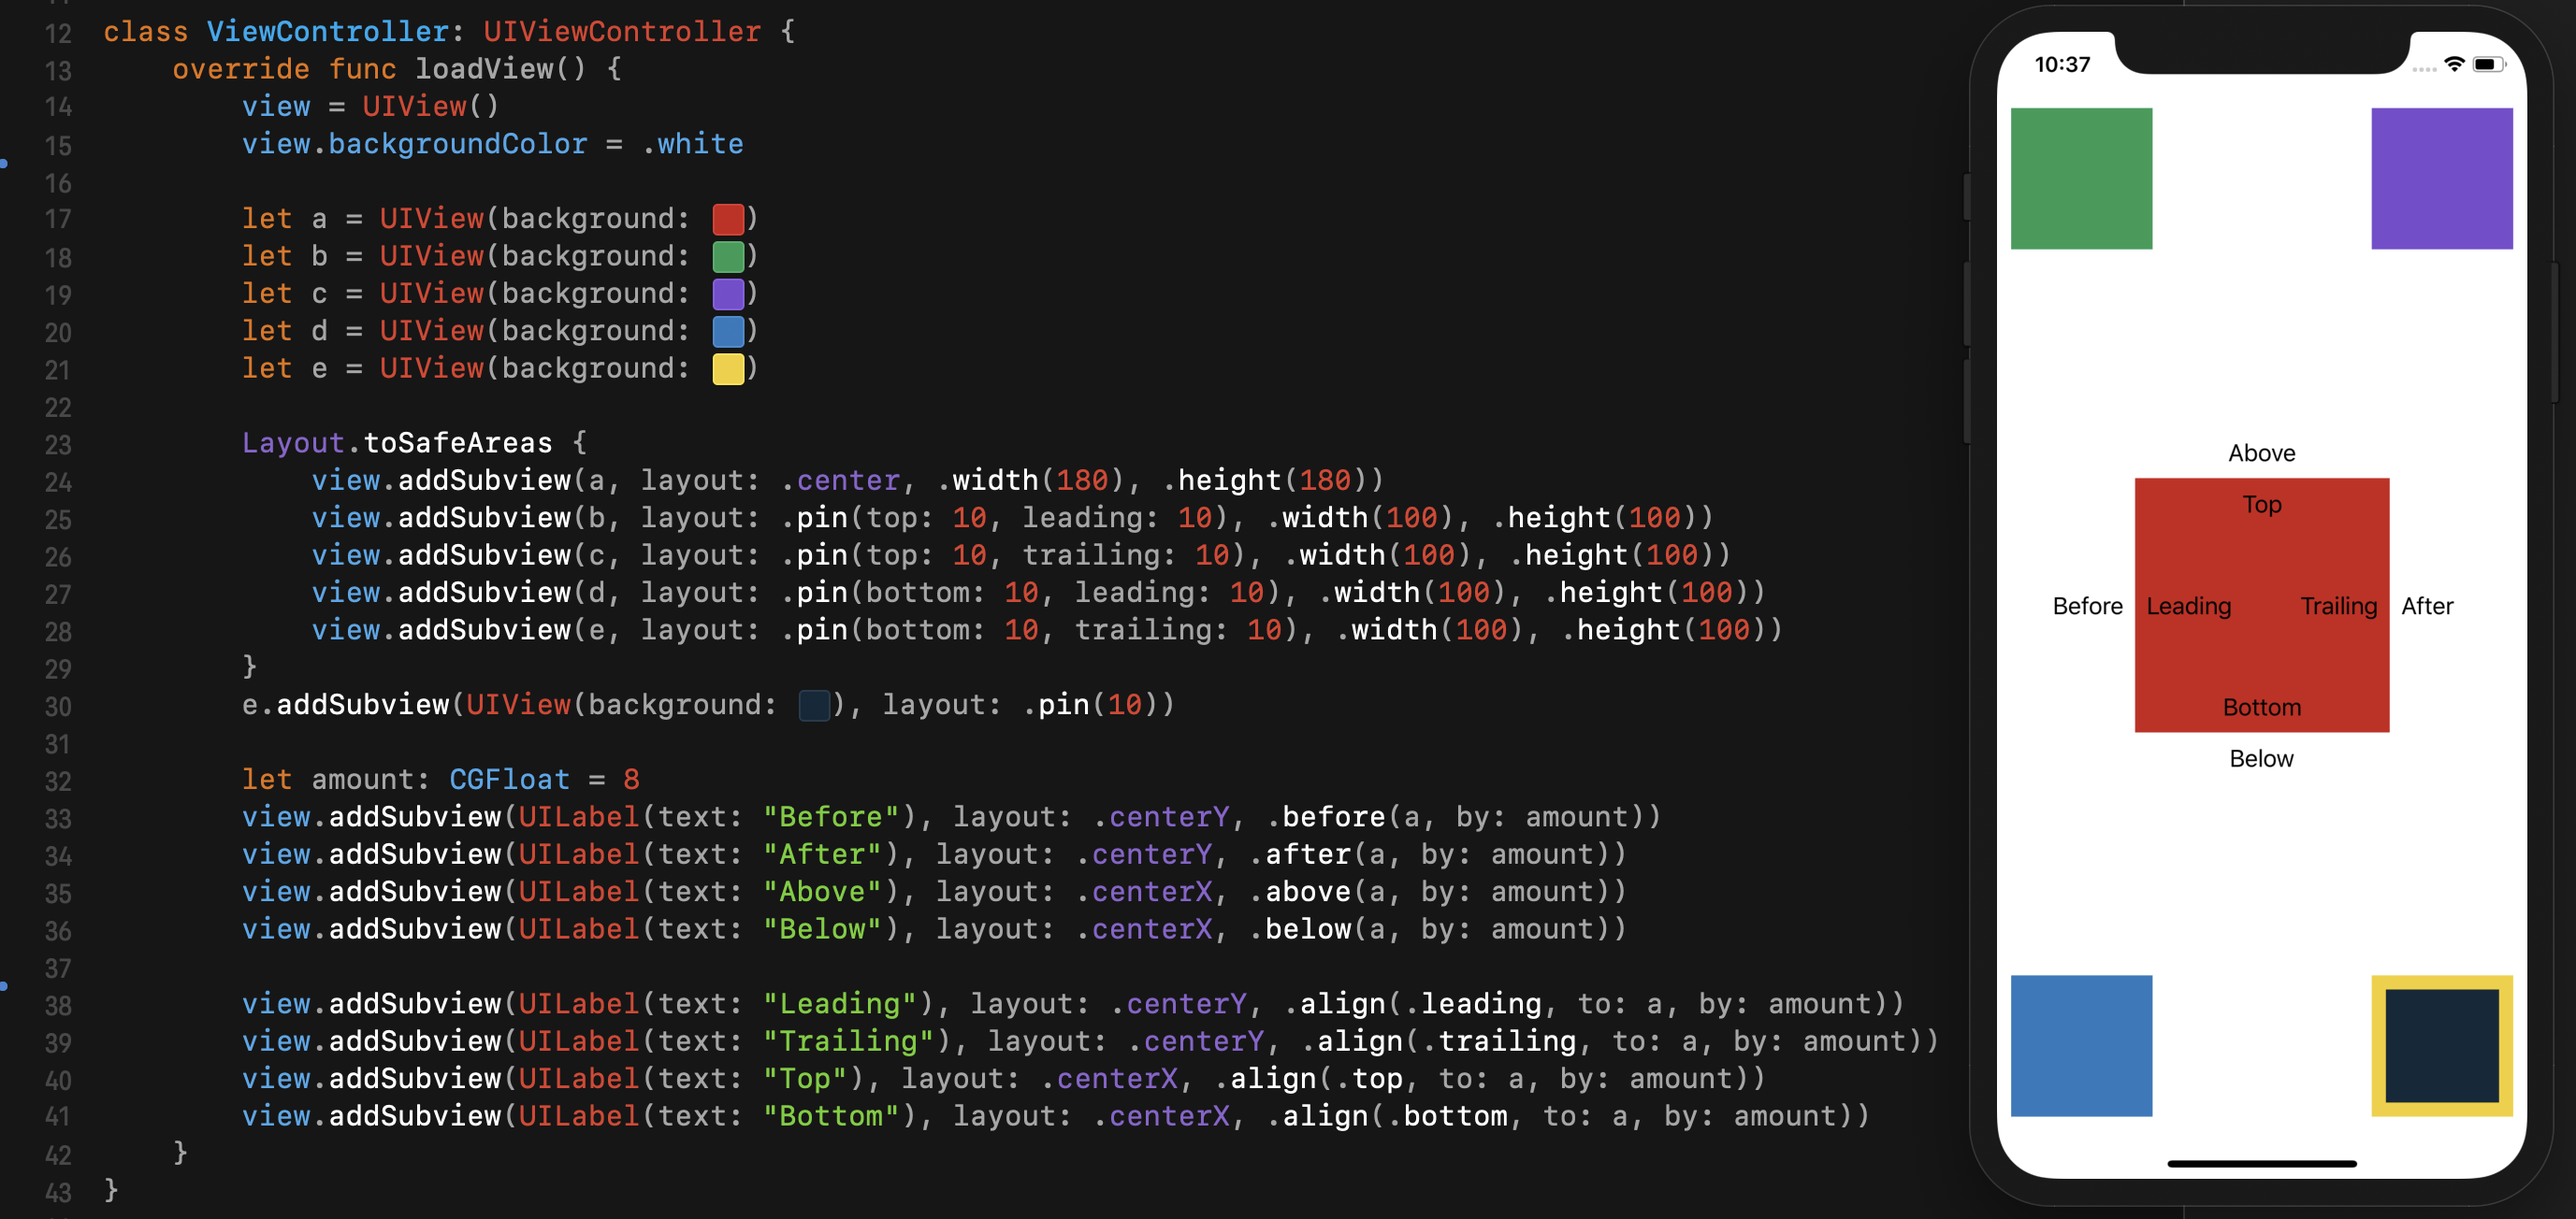
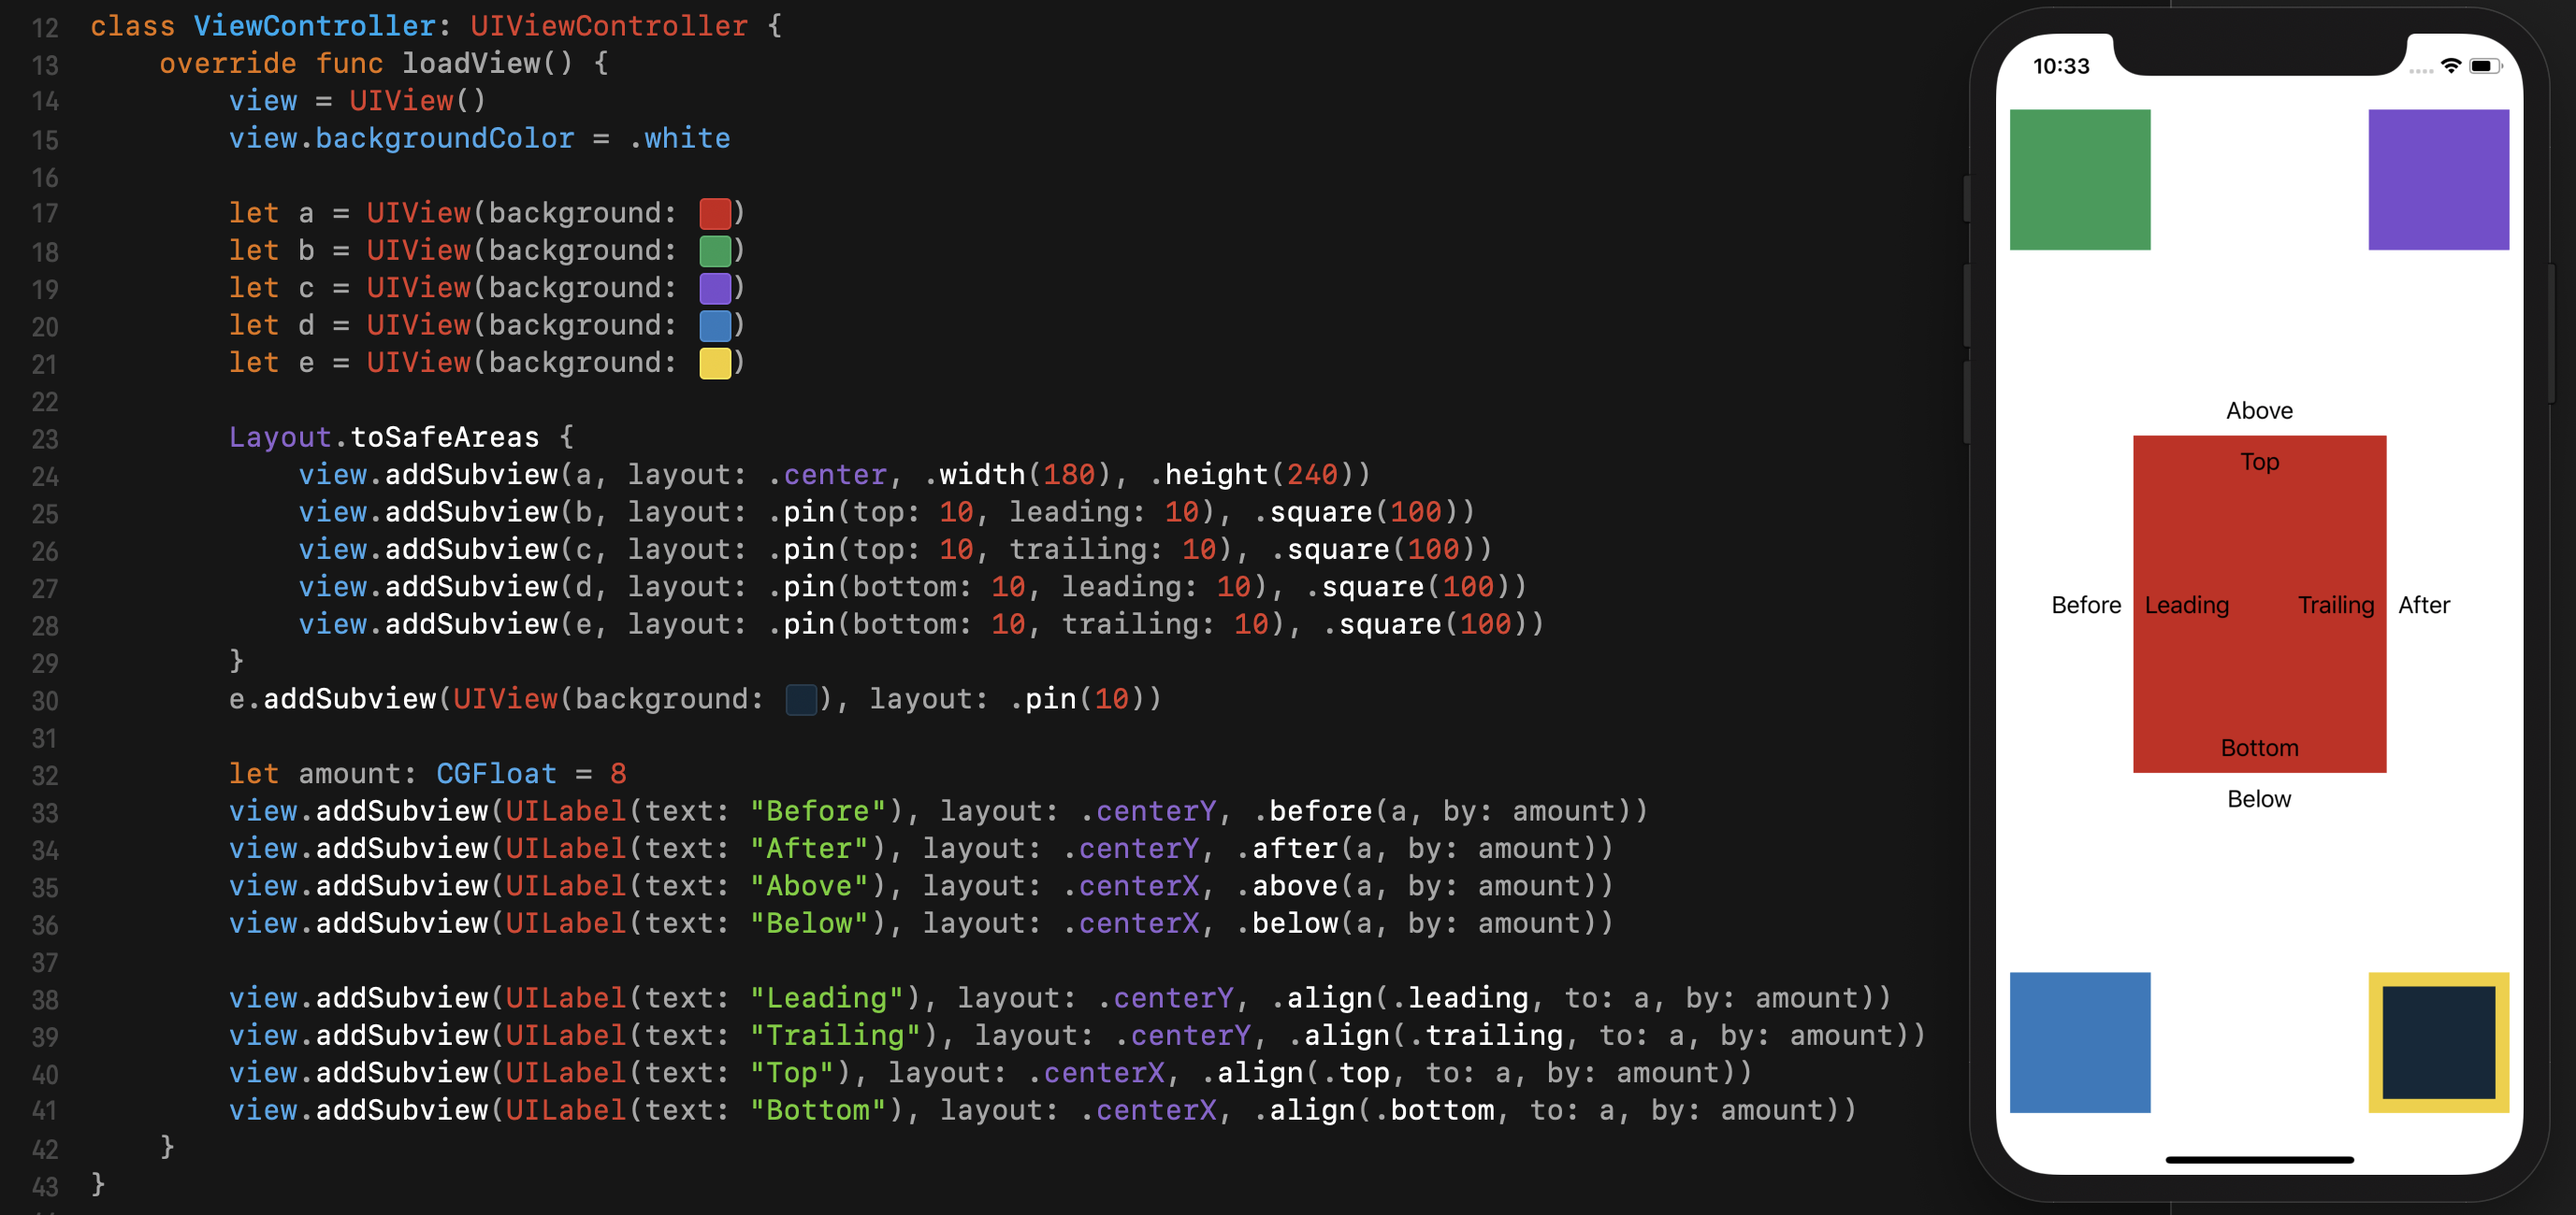
Improve readme and cleanup some comments.

diff --git a/Example/FlyLayout/ViewController.swift b/Example/FlyLayout/ViewController.swift
@@ -35,14 +35,10 @@ class ViewController: UIViewController {
         view.addSubview(UILabel(text: "Above"), layout: .centerX, .above(a, by: amount))
         view.addSubview(UILabel(text: "Below"), layout: .centerX, .below(a, by: amount))
 
-        // might change these to an API that passes the anchor directly like this:
-//        view.addSubview(UILabel(text: "Leading"), layout: .align(to: a.leadingAnchor, by: amount), .centerY)
         view.addSubview(UILabel(text: "Leading"), layout: .centerY, .align(.leading, to: a, by: amount))
         view.addSubview(UILabel(text: "Trailing"), layout: .centerY, .align(.trailing, to: a, by: amount))
         view.addSubview(UILabel(text: "Top"), layout: .centerX, .align(.top, to: a, by: amount))
         view.addSubview(UILabel(text: "Bottom"), layout: .centerX, .align(.bottom, to: a, by: amount))
-
-//        view.addSubview(UILabel(text: "test"), layout: .height(<= a.heightAnchor))
     }
 }
 

diff --git a/Source/UIKit+Extensions.swift b/Source/UIKit+Extensions.swift
@@ -11,7 +11,7 @@ import UIKit
 public extension UIView {
     var autoLayout: Bool {
         get { return translatesAutoresizingMaskIntoConstraints }
-        set { translatesAutoresizingMaskIntoConstraints = !autoLayout }
+        set { translatesAutoresizingMaskIntoConstraints = !newValue }
     }
 
     func addSubview(_ view: UIView, autoLayout: Bool) {

diff --git a/README.md b/README.md
@@ -19,6 +19,14 @@ Add a subview, filling it entirely.
 ```Swift
 view.addSubview(label, layout: .fill)
 ```
+Add a subview, filling in one dimension.
+```Swift
+view.addSubview(label, layout: .fillX)
+view.addSubview(label, layout: .fillY)
+
+// respecting safe areas are also configurable through functions like this:
+view.addSubview(label, layout: .fillY(safe: false))
+```
 
 To provide some spacing around the subview, use `.pin`.
 ```Swift
@@ -40,6 +48,18 @@ Centering subviews:
 .center(x: 10)
 .center(y: -40)
 .center(x: 10, y: -40)
+```
+
+Defining dimensions:
+```Swift
+// simple dimensions
+.width(10), .height(10)
+
+// or a convenience to define width and height together
+.square(10)
+
+// you can also use `width` and `height` referencing another view's anchor values:
+.width(equalTo: someView.widthAnchor)
 ```
 
 ## Advanced Usage
@@ -66,6 +86,23 @@ Or, explicitly control the value of the `useSafeAreas` global, which defines you
 Layout.useSafeAreas = true
 view.addSubview(label, layout: .fillY)
 ```
+
+### Assigning outside of `addSubview`
+
+So far, we've only been assigning constraints during the `addSubview` call. However, it's also possible to add constraints at a later time:
+```Swift
+// if `someView` is already in the view heirarchy, this would apply the constraints referencing `otherView`, where appropriate.
+someView.layout(.pin(10), .width(20), with: otherView)
+```
+Layouts can also be added through all of `UIKit`s standard `insertSubview` calls.
+
+### Extending with your own custom layouts
+
+You can create your own custom layouts that can be passed into the layout calls. To do this:
+
+1. Implement a struct that conforms to `ConstraintProvider`, as in `Layout.swift`
+2. Add an extension to  `Layout` that wraps your `ConstraintProvider`, as in `Definitions.swift` 
+
 
 ## Installation
 
@@ -113,5 +150,14 @@ view.layout(.height(30), with: view)
 In these cases, no second view reference is needed, so the `with` parameter does not make sense and is ignored.
 However, since other constraints do require a second view reference, I do not want to make that parameter an optional.
 
+Maybe I can work around it by making another Layout function that takes types that do not require a second view?
+
 - Layouts that return an array of constraints, with a single item. Inconvenient when needing to reference a single constraint.
 
+
+
+## Ideas/TODO
+
+
+- I have some unexplored ideas for defining constraint priority
+- The `when` conditions from [EasyPeasy](https://github.com/nakiostudio/EasyPeasy) look very cool and would probably work well here.
